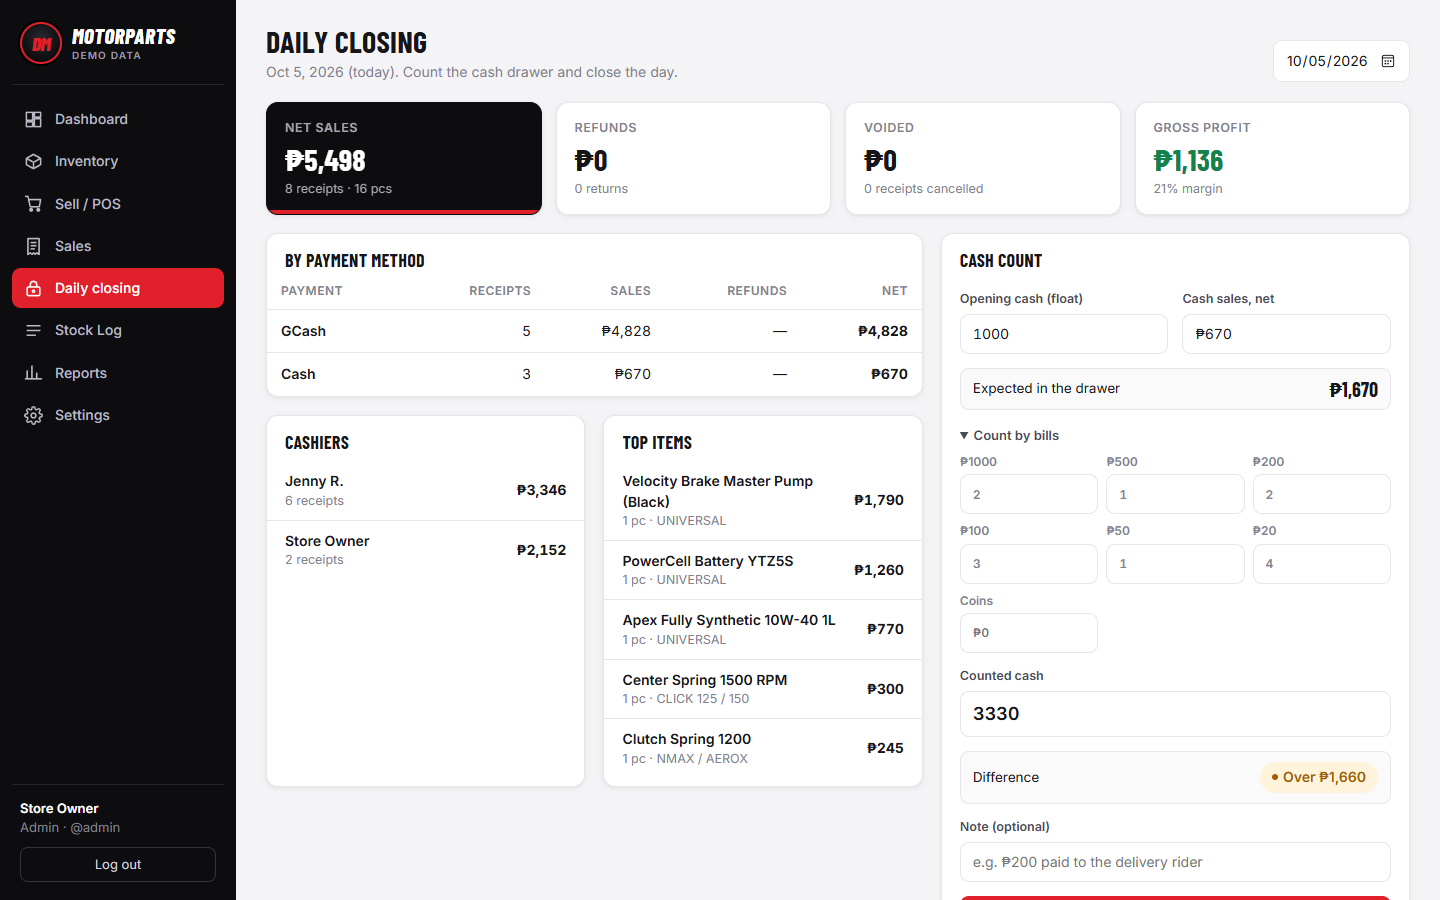
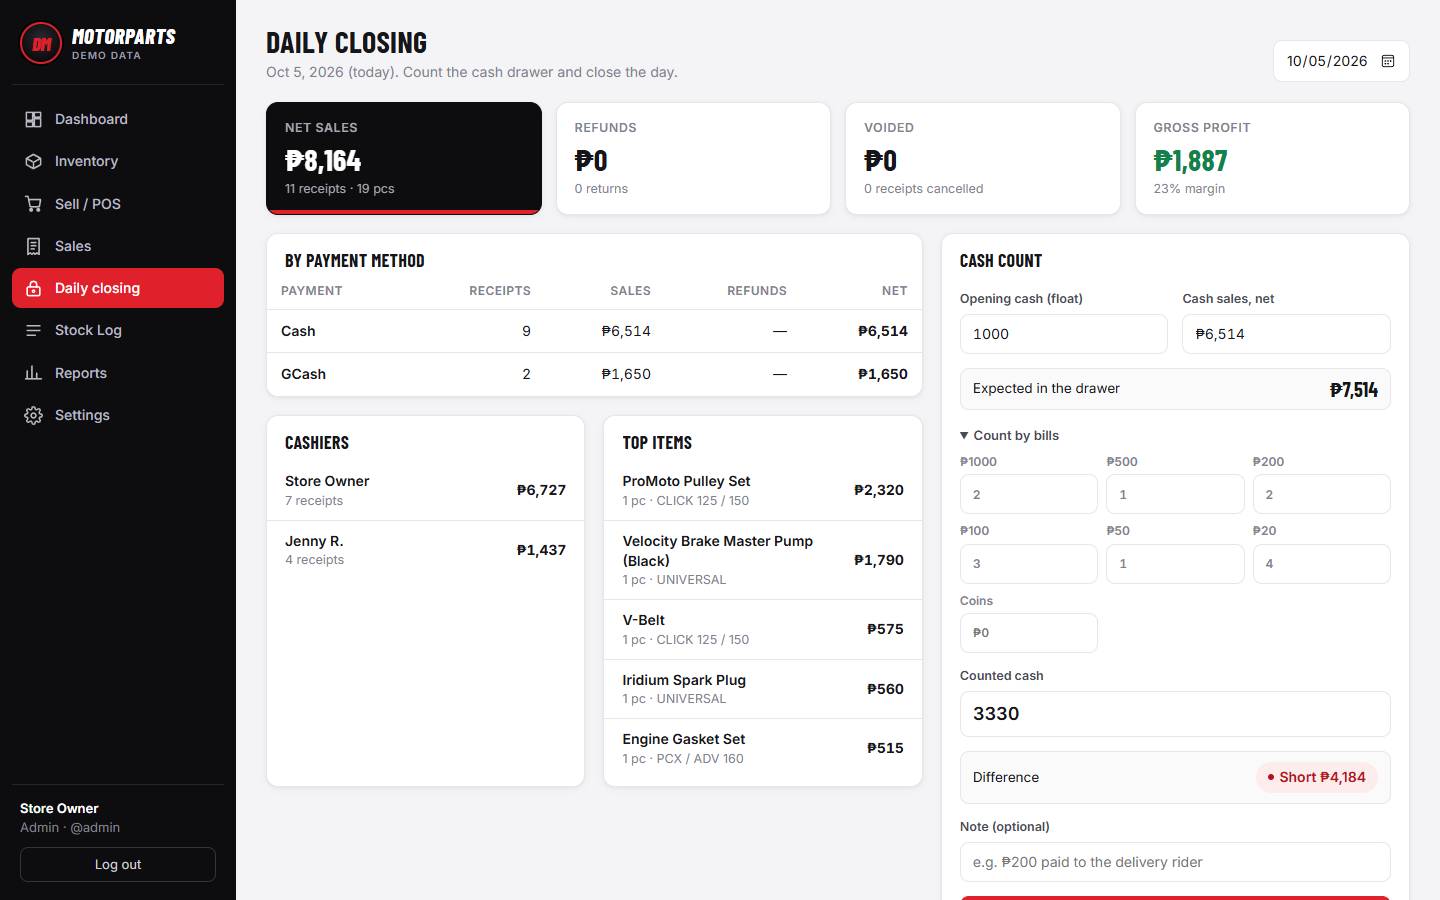
Make the demo's most recent week a good one

diff --git a/demo.js b/demo.js
@@ -200,19 +200,21 @@ function seedDemoHistory(db, { days = 60, seed = 7, hashPassword, now = Date.now
         }
       }
 
-      const sales = Math.max(1, Math.round((weekday === 0 || weekday === 6 ? 8 : 5) + (day / days) * 3 + (rng.next() - 0.5) * 5));
+      // the most recent week is a good one: steadier, busier days, not a lucky spike
+      const goodWeek = day > days - 7;
+      const sales = Math.max(1, Math.round((weekday === 0 || weekday === 6 ? 8 : 5) + (day / days) * 3 + (rng.next() - 0.5) * 5 + (goodWeek ? 3 : 0)));
       const times = Array.from({ length: sales }, () => base + (9 + rng.next() * (lastHour - 9)) * 3600000).sort((a, b) => a - b);
       let receiptNo = 0;
       for (const t of times) {
         const sellable = items.filter(i => i.srp > 0 && stock.get(i.id) > 0);
         if (!sellable.length) break;
         const lines = [];
-        const count = rng.weighted([[1, 60], [2, 30], [3, 10]]);
+        const count = goodWeek ? rng.weighted([[1, 46], [2, 37], [3, 17]]) : rng.weighted([[1, 60], [2, 30], [3, 10]]);
         for (let k = 0; k < count; k++) {
           const it = rng.weighted(sellable.map(i => [i, 1 / Math.sqrt(i.srp)]));
           if (lines.some(l => l.it === it)) continue;
           const qty = Math.min(stock.get(it.id), it.srp < 100 ? rng.int(1, 4) : 1);
-          const price = rng.next() < 0.12 ? round5(it.srp * 0.93) : it.srp;
+          const price = rng.next() < (goodWeek ? 0.05 : 0.12) ? round5(it.srp * 0.93) : it.srp;
           lines.push({ it, qty, price });
         }
         if (!lines.length) continue;
